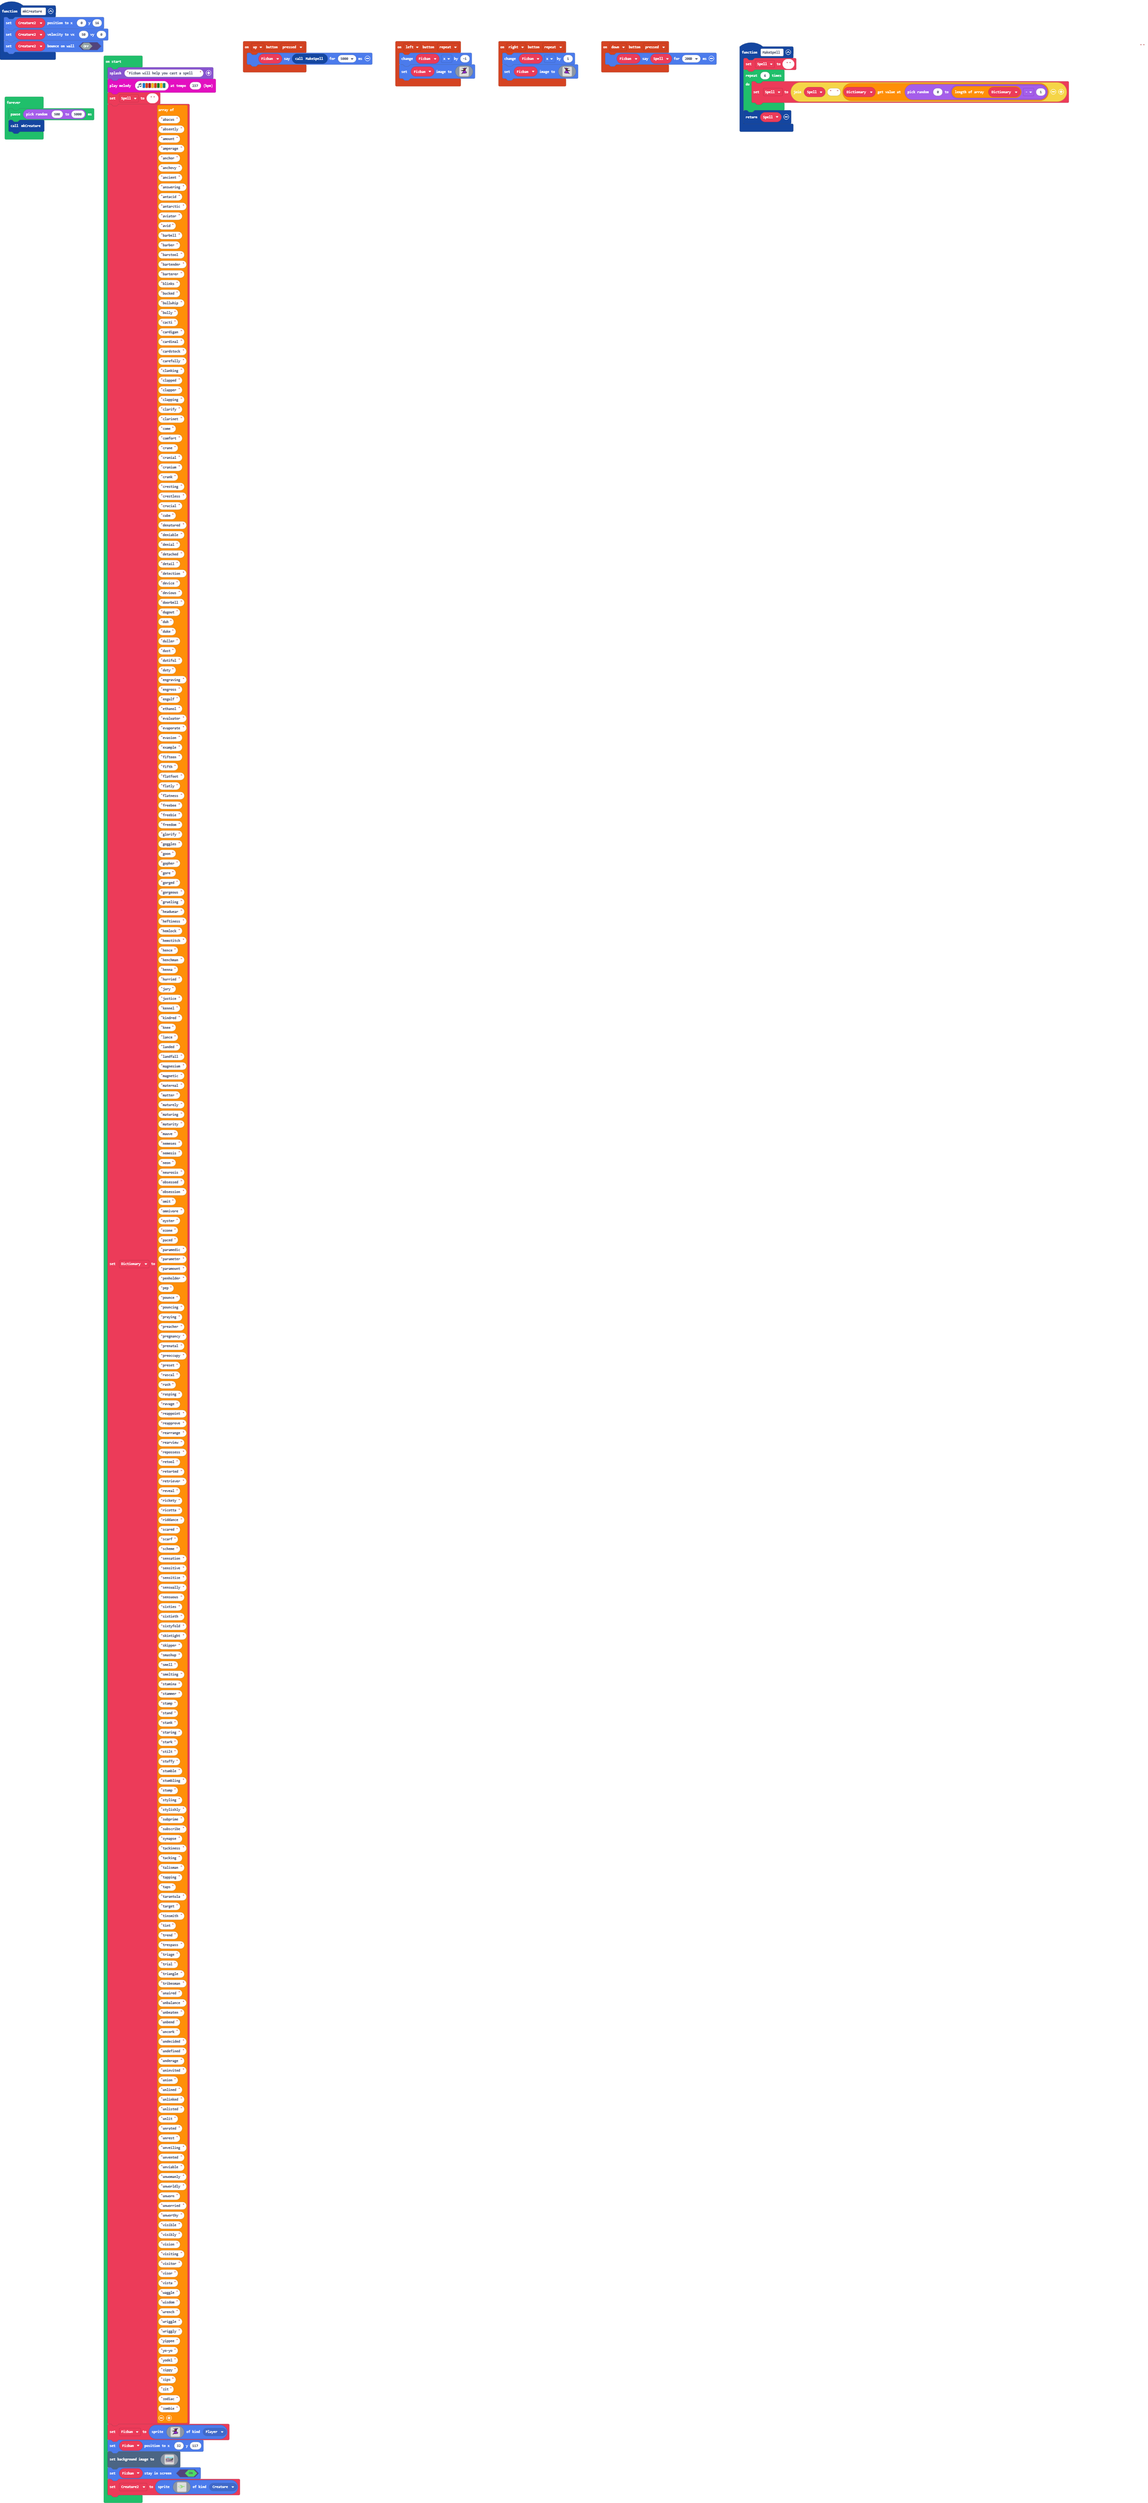
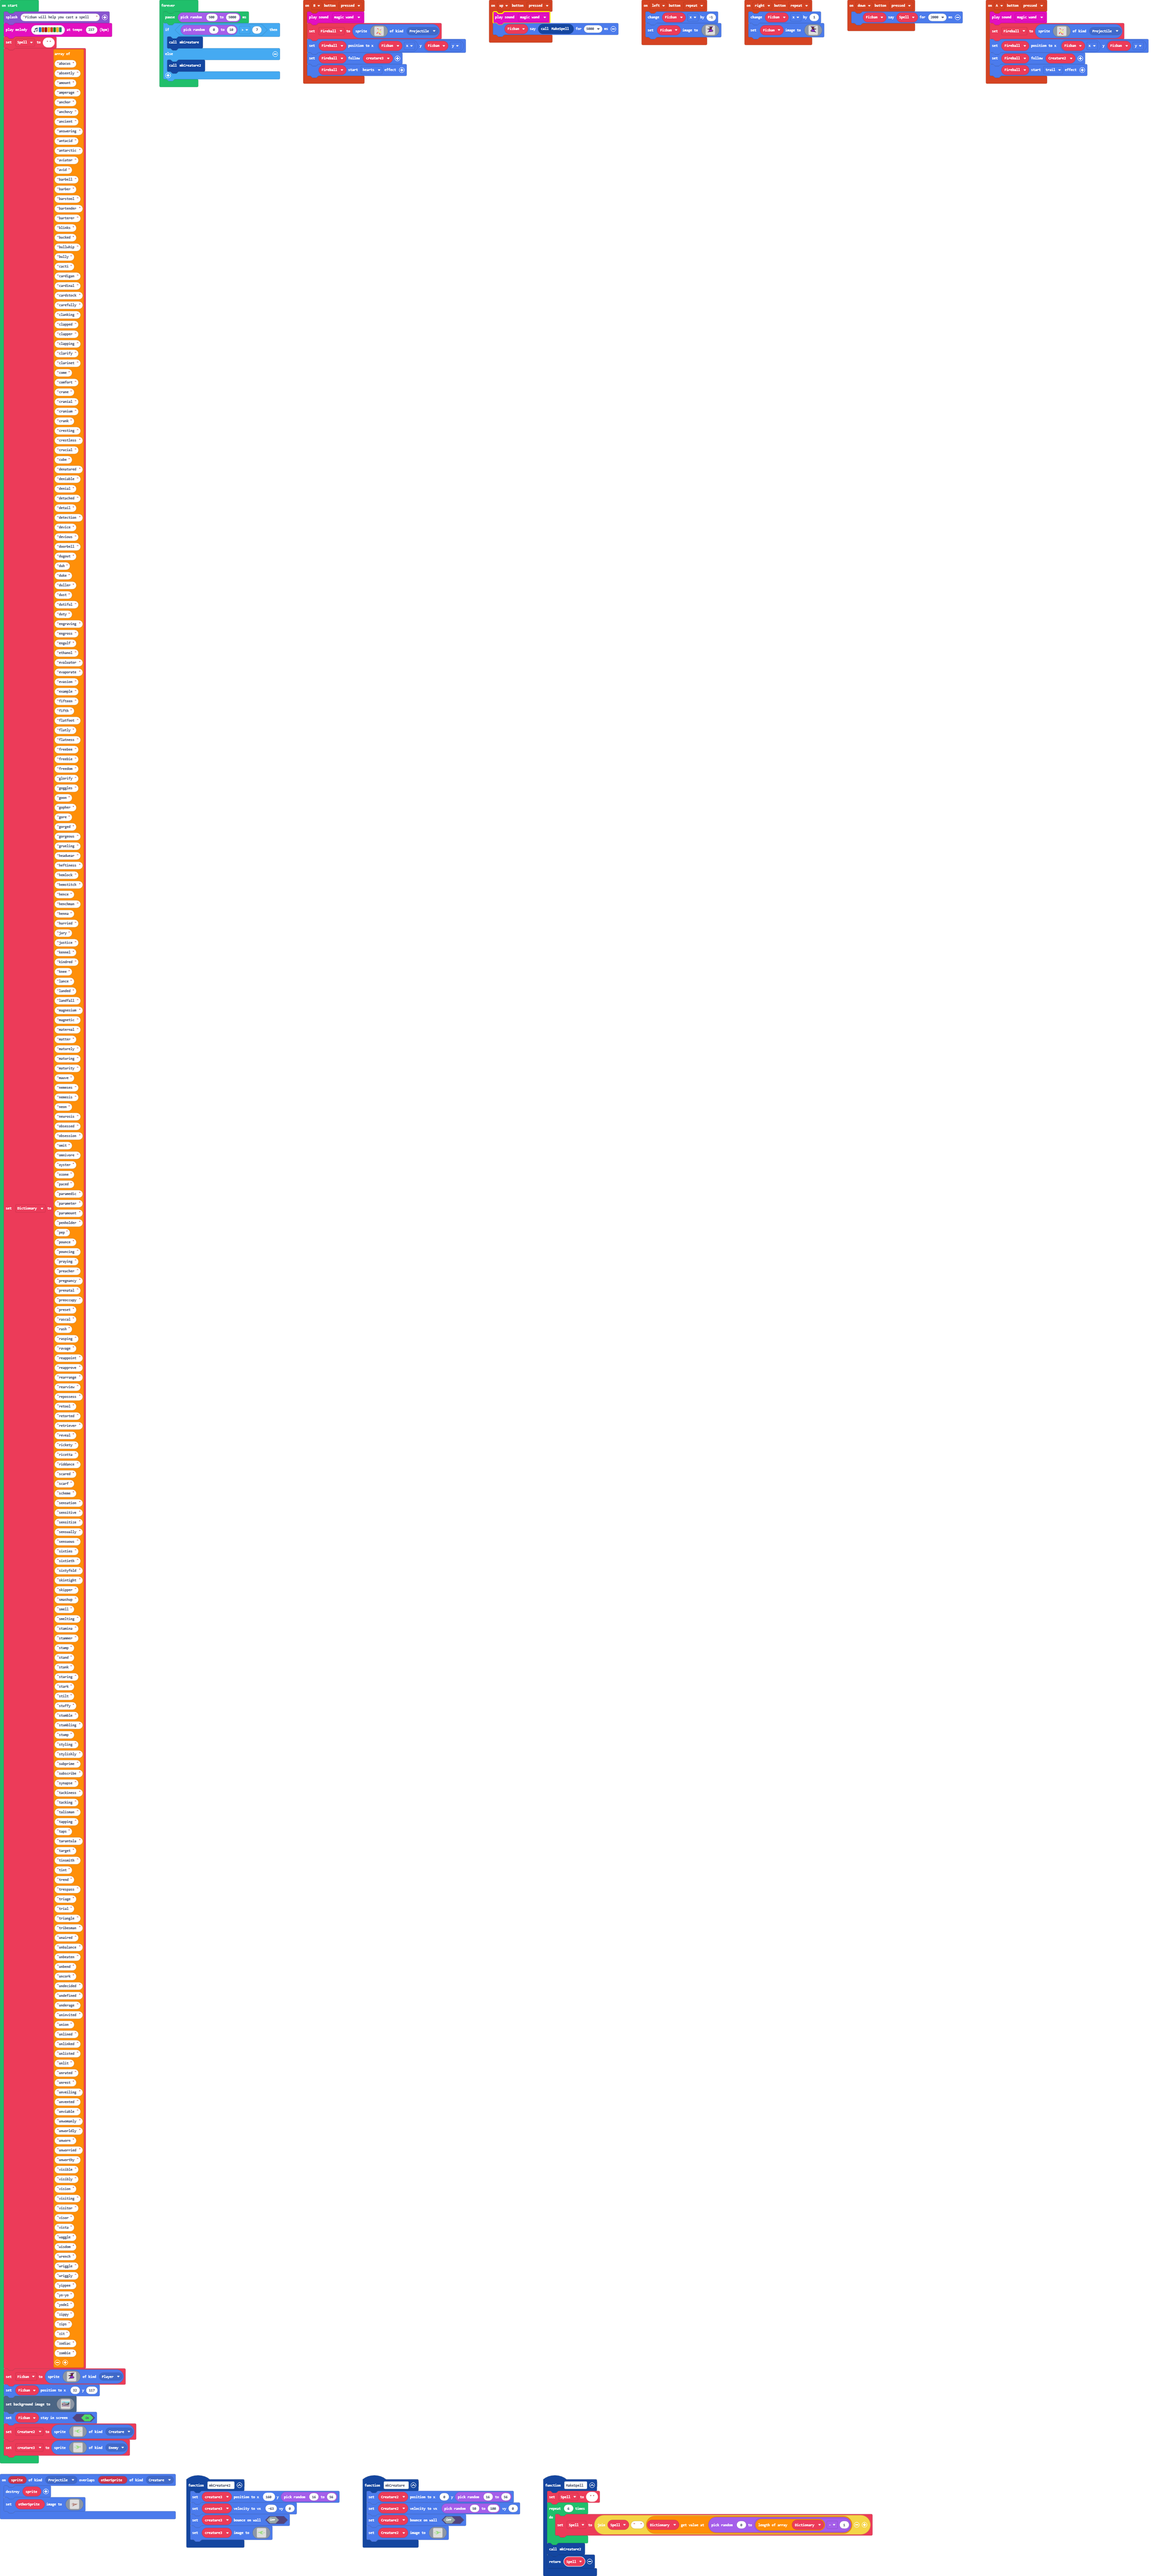
Update main.blocks, main.ts, images.g.jres, images.g.ts

Changed region(s): [[0.0, 0.0, 0.9962, 1.0], [0.467, 0.9631, 0.7472, 1.0], [0.3113, 0.9631, 0.4358, 0.9942]]

diff --git a/main.ts b/main.ts
@@ -2,18 +2,35 @@ namespace SpriteKind {
     export const Creature = SpriteKind.create()
 }
 controller.up.onEvent(ControllerButtonEvent.Pressed, function () {
+    music.magicWand.play()
     Fizban.say(MakeSpell(), 5000)
 })
 function mkCreature () {
-    Creature2.setPosition(0, 16)
-    Creature2.setVelocity(50, 0)
+    Creature2.setPosition(0, randint(16, 56))
+    Creature2.setVelocity(randint(50, 100), 0)
     Creature2.setBounceOnWall(false)
+    Creature2.setImage(assets.image`Temporary asset3`)
 }
+controller.B.onEvent(ControllerButtonEvent.Pressed, function () {
+    music.magicWand.play()
+    Fireball = sprites.create(assets.image`myImage`, SpriteKind.Projectile)
+    Fireball.setPosition(Fizban.x, Fizban.y)
+    Fireball.follow(creature3)
+    Fireball.startEffect(effects.hearts)
+})
+controller.A.onEvent(ControllerButtonEvent.Pressed, function () {
+    music.magicWand.play()
+    Fireball = sprites.create(assets.image`myImage`, SpriteKind.Projectile)
+    Fireball.setPosition(Fizban.x, Fizban.y)
+    Fireball.follow(Creature2)
+    Fireball.startEffect(effects.trail)
+})
 function MakeSpell () {
     Spell = ""
     for (let index = 0; index < 6; index++) {
         Spell = "" + Spell + "  " + Dictionary[randint(0, Dictionary.length - 1)]
     }
+    mkCreature2()
     return Spell
 }
 controller.right.onEvent(ControllerButtonEvent.Repeated, function () {
@@ -23,10 +40,39 @@ controller.right.onEvent(ControllerButtonEvent.Repeated, function () {
 controller.down.onEvent(ControllerButtonEvent.Pressed, function () {
     Fizban.say(Spell, 2000)
 })
+function mkCreature2 () {
+    creature3.setPosition(160, randint(16, 56))
+    creature3.setVelocity(-63, 0)
+    creature3.setBounceOnWall(false)
+    creature3.setImage(img`
+        ...................777777..........
+        ................77777777777........
+        ..............777777777............
+        ......77.....77777777..............
+        ......7.....77777777...............
+        .....277777777777777...............
+        ...7777777777777777777........777..
+        ..7...77777777777777..777....77.77.
+        .............77777......777777...7.
+        .............777777................
+        ..............777777...............
+        ..............7777777..............
+        ...............77777.7777..........
+        ...................7777777.........
+        ...................................
+        ...................................
+        `)
+}
+sprites.onOverlap(SpriteKind.Projectile, SpriteKind.Creature, function (sprite, otherSprite) {
+    sprite.destroy()
+    otherSprite.setImage(assets.image`Temporary asset2`)
+})
 controller.left.onEvent(ControllerButtonEvent.Repeated, function () {
     Fizban.x += -1
     Fizban.setImage(assets.image`Temporary asset`)
 })
+let Fireball: Sprite = null
+let creature3: Sprite = null
 let Creature2: Sprite = null
 let Fizban: Sprite = null
 let Dictionary: string[] = []
@@ -433,24 +479,29 @@ scene.setBackgroundImage(img`
     `)
 Fizban.setStayInScreen(true)
 Creature2 = sprites.create(img`
-    ..........777777...................
-    ........77777777777................
-    ............777777777..............
-    ..............77777777.....77......
-    ...............77777777.....7......
-    ...............777777777777772.....
-    ..777........7777777777777777777...
-    .77.77....777..77777777777777...7..
-    .7...777777......77777.............
-    ................777777.............
-    ...............777777..............
+    ...................777777..........
+    ................77777777777........
+    ..............777777777............
+    ......77.....77777777..............
+    ......7.....77777777...............
+    .....277777777777777...............
+    ...7777777777777777777........777..
+    ..7...77777777777777..777....77.77.
+    .............77777......777777...7.
+    .............777777................
+    ..............777777...............
     ..............7777777..............
-    ..........7777.77777...............
-    .........7777777...................
+    ...............77777.7777..........
+    ...................7777777.........
     ...................................
     ...................................
     `, SpriteKind.Creature)
+creature3 = sprites.create(assets.image`Temporary asset3`, SpriteKind.Enemy)
 forever(function () {
     pause(randint(500, 5000))
-    mkCreature()
+    if (randint(0, 10) > 7) {
+        mkCreature()
+    } else {
+        mkCreature2()
+    }
 })

diff --git a/images.g.ts b/images.g.ts
@@ -3,25 +3,6 @@ namespace myImages {
 
     helpers._registerFactory("image", function(name: string) {
         switch(helpers.stringTrim(name)) {
-            case "image2":
-            case "myImage":return img`
-. . . . . . . . . . . . . . . . 
-. . . . . . . . . . . . . . . . 
-. . . . . . . . . . . . . . . . 
-. . . . . . . . . . . . . . . . 
-. . . . . . . . . . . . . . . . 
-. . . . . . . . . . . . . . . . 
-. . . . . . . . . . . . . . . . 
-. . . . . . . . . . . . . . . . 
-. . . . . . . . . . . . . . . . 
-. . . . . . . . . . . . . . . . 
-. . . . . . . . . . . . . . . . 
-. . . . . . . . . . . . . . . . 
-. . . . . . . . . . . . . . . . 
-. . . . . . . . . . . . . . . . 
-. . . . . . . . . . . . . . . . 
-. . . . . . . . . . . . . . . . 
-`;
             case "image4":
             case "Temporary asset1":return img`
 ........................ffff....
@@ -126,6 +107,82 @@ namespace myImages {
 ................................
 ................................
 ................................
+`;
+            case "image2":
+            case "myImage":return img`
+. . . . . . . . . . . . . . . . 
+. . . . . . . . . . . . . . . . 
+. . . . . . . . . . . . . . . . 
+. . . . 2 2 . . . . . . . . . . 
+. . . . . . 2 . . . . . . . . . 
+. . . . . . . . 5 . . 2 . . . . 
+. . . . . . . . 5 . 2 . . . . . 
+. . . . . . 5 . . . . . . . . . 
+. . . . . . 5 . . . . . . . . . 
+. . . . . . . . . . . 5 . . . . 
+. . . . . 2 . . 5 5 5 5 . . . . 
+. . . . 2 . 5 5 . . . . . . . . 
+. . . 2 2 . . 2 . . . . . . . . 
+. . . 2 . . . . 2 . . . . . . . 
+. . . . . . . . 2 2 2 2 . . . . 
+. . . . . . . . . . . . . . . . 
+`;
+            case "image5":
+            case "Temporary asset2":return img`
+...................................
+..........e........................
+...........eee.....................
+.............ee....................
+......e.......ee..........11e......
+......ee.eeeeeeeeeeeeeeeeeedeee....
+........eedddddddddddddddddddde....
+......eeeeeeeeeeeeeeeeeeeeedd55....
+......e....eeeeeeeeeeeeeeeeee......
+.............eeeeedddeeeeeee.......
+..............eddddeeeee...........
+.............eeeeee................
+...........eeeeeee.................
+.........eee.eee...................
+.......eee..ee.....................
+..........eee......................
+`;
+            case "image6":
+            case "Temporary asset3":return img`
+..........777777...................
+........77777777777................
+............777777777..............
+..............77777777.....77......
+...............77777777.....7......
+...............777777777777772.....
+..777........7777777777777777777...
+.77.77....777..77777777777777...7..
+.7...777777......77777.............
+................777777.............
+...............777777..............
+..............7777777..............
+..........7777.77777...............
+.........7777777...................
+...................................
+...................................
+`;
+            case "image7":
+            case "Temporary asset4":return img`
+...................................
+........................e..........
+.....................eee...........
+....................ee.............
+......e11..........ee.......e......
+....eeedeeeeeeeeeeeeeeeeee.ee......
+....eddddddddddddddddddddee........
+....55ddeeeeeeeeeeeeeeeeeeeee......
+......eeeeeeeeeeeeeeeeee....e......
+.......eeeeeeedddeeeee.............
+...........eeeeedddde..............
+................eeeeee.............
+.................eeeeeee...........
+...................eee.eee.........
+.....................ee..eee.......
+......................eee..........
 `;
         }
         return null;
